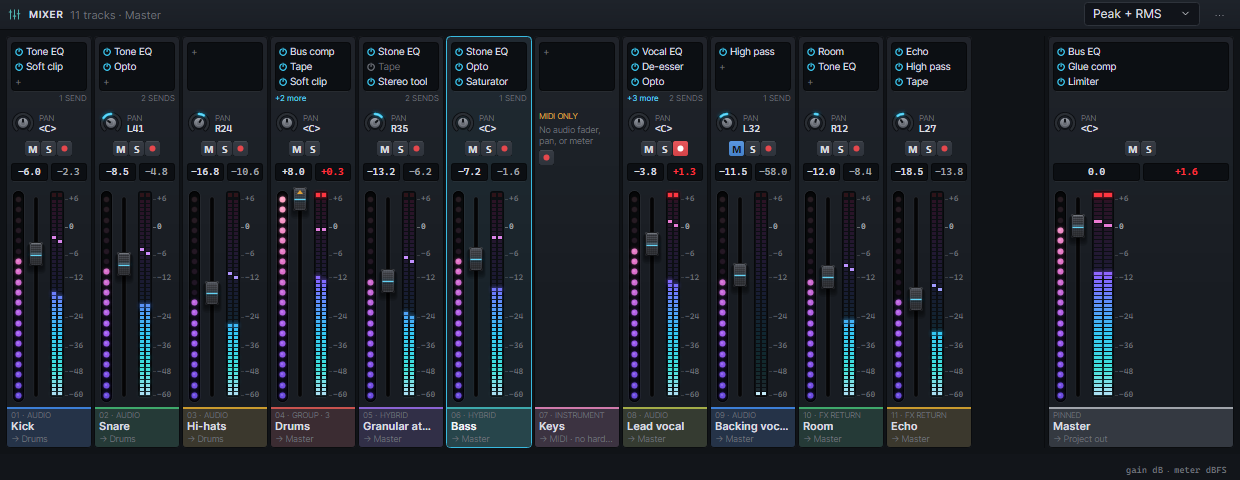
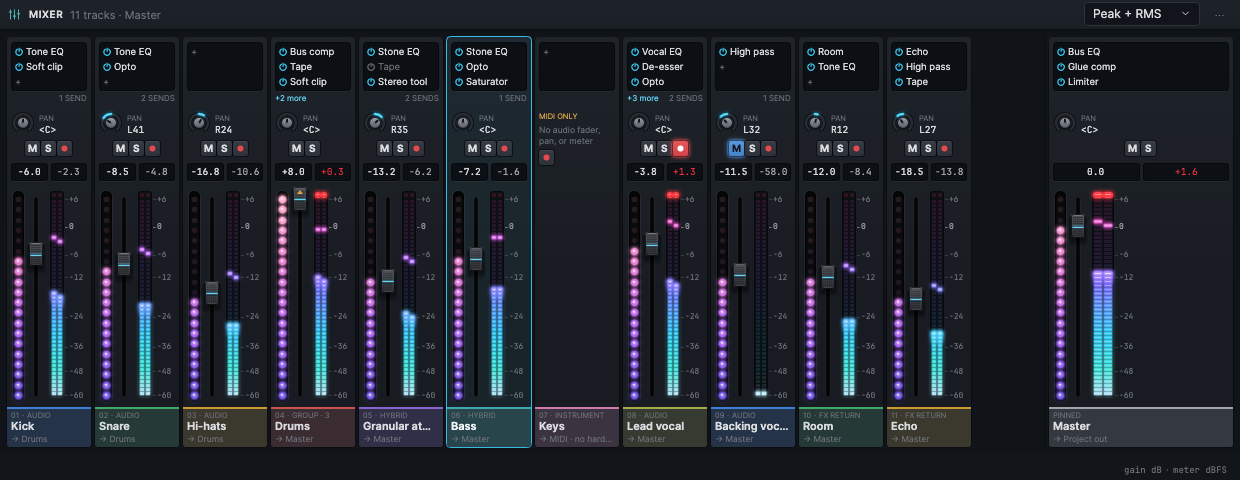
Document LED glow and refresh README mixer images

diff --git a/docs/user-guide.md b/docs/user-guide.md
@@ -171,6 +171,8 @@ Picker changes preview live while preference saves are held. **Apply** keeps the
 
 Drag a handle, or focus it and press Left or Right (1%, or 5% with Shift), to change where its color begins; two stops at the same place make a hard edge. **Add stop** adds one in the widest gap (up to eight), **Remove stop** removes the selected one (two always remain), and **Reset to default** resets only that gradient: pale blue through teal, cyan, violet, and purple to pink for mixer and chain meters, violet-to-rose for gain LEDs. Saved custom gradients stay unchanged when the factory default changes; use **Reset to default** to adopt the new palette for either family. **Device chain** also offers **MIDI light**, a single color whose chip opens the same picker; it is not a gradient. The selected stop and MIDI light also have hex fields and swatches on the page for direct edits. Clip lamps stay fixed red, outside the gradients. An existing saved signal gradient is copied into both mixer and chain settings on upgrade; gain LEDs start with their own default.
 
+Under **LEDS**, **LED glow** (on by default) gives lit LEDs a realistic light: gain LEDs have a hot core and a lens highlight, meter cells pool light on the well with the top three lit cells of each column brightening toward the top, and clip lamps, the **M**, **S**, and record keys, power buttons, MIDI lights, and transport lamps glow too. **Glow strength** sets how bright that light is, from 0% to 200% of the default (100%). Turning **LED glow** off skips the glow drawing altogether, which saves work on a slower computer; LEDs still light, and the meters' top cells are still a little brighter.
+
 The **LED fade** and **LED warm-up** check boxes are both on by default and can be cleared independently. Warm-up softly lights meter cells and gain LEDs over about 20 ms; held peaks, clip lamps, MIDI indicators, and lit keys light immediately. Fade softens the return to dark: about 90 ms for meter cells and held peaks; 140 ms for gain LEDs, clip lamps, the Device chain MIDI light, and the transport's **IN** and computer-keyboard note lights; and 60 ms for lit keys, including the transport buttons. This is display motion only: it does not change the measured levels, peak hold, clip latch, or audio. It sits on top of the meters' existing fall.
 
 Both effects behave as off when the operating system requests reduced motion: macOS uses Reduce motion, and Windows uses its client-area animation preference, read at startup and when the main window becomes active. After changing that system preference, return to Bluestone to refresh it. On Linux the two check boxes decide alone. If Bluestone can't read the system preference, it reduces motion. Under **Device View**, **Levels show** chooses whether the meters between devices and on the Out card follow the average level with the peak held above it (the default) or the peak alone. These settings are saved on this computer, not in the project. If they can't be saved (for example, a read-only settings folder), they still apply until you quit, and a warning appears in Messages.

diff --git a/docs/engineering-handoff.md b/docs/engineering-handoff.md
@@ -314,3 +314,8 @@ known gaps, but it is not priority order. Use [release-1.0.md](release-1.0.md) f
     The user accepted proceeding without those live checks. Status text also has low contrast against its background.
     At extremely narrow center widths, the mixer heading can overlap the meter-mode selector; whether the font change
     caused or worsened this has not been established.
+15. **LED glow (branch `feature/led-glow`), deferred or not built:** the brightness fader's mark in the color picker
+    builds its glow once, so it picks up a new glow strength only when it is rebuilt; the shared bloom cache grows by
+    one small brush per MIDI color tried until the next glow change; the selected device card's halo and the color
+    wheel's thumb halo mark selection, not light, so they ignore the glow setting by design. Not measured: drawing
+    cost on a slower or integrated GPU, or HiDPI beyond the 2x headless frames.
